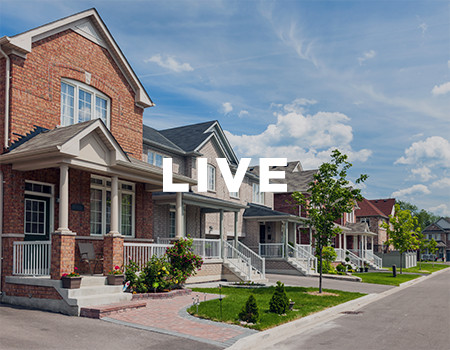
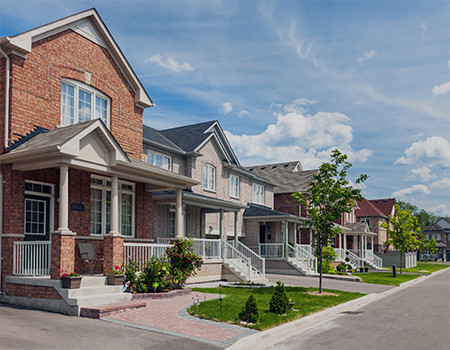
add links

Changed region(s): [[0.3422, 0.4286, 0.6533, 0.5714]]

diff --git a/theme/css/styles.css b/theme/css/styles.css
@@ -690,18 +690,30 @@ a {
   overflow: hidden;
   visibility: hidden;
 }
-.b-links a {
+.b-links .links {
   float: left;
   margin-right: 4%;
   width: 30.5%;
+  position: relative;
 }
-.b-links a img {
+.b-links .links h3 {
+  position: absolute;
+  top: 50%;
+  left: 50%;
+  transform: translate(-50%, -50%);
+  color: #fff;
+  text-transform: uppercase;
+  font-size: 48px;
+  letter-spacing: 3px;
+  margin: 0;
+}
+.b-links .links img {
   margin: 0 auto;
 }
-.b-links a:last-child {
+.b-links .links:last-child {
   margin-right: 0;
 }
-.b-links a:hover {
+.b-links .links:hover {
   opacity: 0.6;
   -moz-transition: all 0.3s;
   -o-transition: all 0.3s;

diff --git a/scss/blocks/links/_links.scss b/scss/blocks/links/_links.scss
@@ -2,10 +2,23 @@
     margin-bottom: 5%;
     @include clearfix();
 
-    a {
+    .links {
       float: left;
       margin-right: 4%;
       width: 30.5%;
+      position: relative;
+
+      h3 {
+        position: absolute;
+        top: 50%;
+        left: 50%;
+        transform: translate(-50%,-50%);
+        color: #fff;
+        text-transform: uppercase;
+        font-size: 48px;
+        letter-spacing: 3px;
+        margin: 0;
+      }
 
       img {
         margin: 0 auto;

diff --git a/BDEddie_Site_Homepage_v2.php b/BDEddie_Site_Homepage_v2.php
@@ -15,15 +15,24 @@
     </div>
 
     <div class="b-links width-padding">
-      <a href="#">
-        <img src="theme/images/tmp/link-work.jpg" alt="1"/>
-      </a>
-      <a href="#">
-        <img src="theme/images/tmp/link-shop.jpg" alt="2"/>
-      </a>
-      <a href="#">
-        <img src="theme/images/tmp/link-live.jpg" alt="3"/>
-      </a>
+      <div class="links">
+        <a href="#">
+          <h3>work</h3>
+          <img src="theme/images/tmp/link-work.jpg" alt="1"/>
+        </a>
+      </div>
+      <div class="links">
+        <a href="#">
+          <h3>shop</h3>
+          <img src="theme/images/tmp/link-shop.jpg" alt="2"/>
+        </a>
+      </div>
+      <div class="links">
+        <a href="#">
+          <h3>live</h3>
+          <img src="theme/images/tmp/link-live.jpg" alt="3"/>
+        </a>
+      </div>
     </div>
 
     <div class="b-about-us width-padding">
@@ -75,9 +84,9 @@
       </div>
 
       <div class="contact-link btn-wrapper">
-          <a class="btn" href="#">
-            contact
-          </a>
+        <a class="btn" href="#">
+          contact
+        </a>
       </div>
     </div>
 
